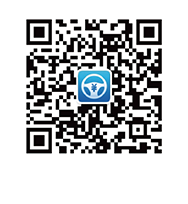
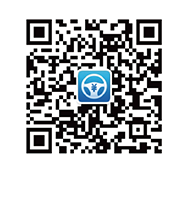
app更新修改

diff --git a/cz-app/czapp-dist/index.html b/cz-app/czapp-dist/index.html
@@ -59,11 +59,11 @@
                     <p class="afor-1"></p>
                 </div>
                 <div class="img1"></div>
-                <div class="tit-con">
-                    <div class="t-tit"><b>56489</b>个挣点</div>
-                    <div class="a-tit mt20">您总共有<b></b>56489个挣点，总共<b>564.89</b>元，</div>
-                    <div class="a-tit">里程奖励<b>14122</b>个挣点！驾驶奖励<b>14122</b>个挣点！</div>
-                    <div class="a-tit">停驶奖励<b>14122</b>个挣点</div>
+                <div class="tit-con tit-con-l">
+                    <div class="a-tit mt20">总共挣的<b>494</b>元</div>
+                    <div class="a-tit">里程奖励<b>12882</b>个挣点，</div>
+                    <div class="a-tit">驾驶奖励<b>5151</b>个挣点，</div>
+                    <div class="a-tit">停驶奖励<b>18241</b>个挣点!</div>
                 </div>
             </arction>
         </section>
@@ -142,15 +142,20 @@
                     <p class="afor-1"></p>
                 </div>
                 <div class="img1"></div>
-                <div class="img2"></div>
-                <!-- <div class="btn"></div> -->
-                <div class="qr-code"></div>
                 <div class="tit-con">
-                    <div class="a-tit">经过我们评测</div>
+                    <div class="a-tit mt20">经过我们评测</div>
                     <div class="a-tit mt20">您荣膺<i>【超级油王】</i>的称号！</div>
-                    <!-- <div class="a-tit">您的油耗花费在所有朋友中排名第1，</div> -->
-                    <!-- <div class="a-tit">华丽丽的存在！</div> -->
                 </div>
+            </arction>
+        </section>
+
+        <section data-page="9" class="m-page m-page9 hide">
+            <arction class="content">
+                <div class="arrow">
+                    <p class="afor-1"></p>
+                </div>
+                <div class="img1"></div>
+                <div class="qr-code"></div>
             </arction>
         </section>
 

diff --git a/cz-app/czapp-dist/css/style.css b/cz-app/czapp-dist/css/style.css
@@ -1,4 +1,4 @@
-/*! @czapp Date: 2015-08-13, 4:29:20 PM */
+/*! @czapp Date: 2015-08-14, 3:03:26 PM */
 /**
 *
 * 变量
@@ -859,6 +859,15 @@ i {
   font-size: 1rem;
   color: #fcd61b;
 }
+.mt5 {
+  margin-top: 5px !important;
+}
+.mt10 {
+  margin-top: 10px !important;
+}
+.mt15 {
+  margin-top: 15px !important;
+}
 .mt20 {
   margin-top: 20px !important;
 }
@@ -912,7 +921,7 @@ i {
 .a-tit {
   color: #c6c6c6;
   font-size: 0.7rem;
-  margin-top: 10px;
+  margin-top: 6px;
   margin-left: 20px;
   margin-right: 20px;
 }
@@ -964,6 +973,12 @@ i {
 }
 .m-page8 .tit-con {
   top: 12.5rem;
+}
+.m-page8 .tit-con-l {
+  text-align: left;
+  width: 12.5rem;
+  left: 50%;
+  margin-left: -4.5rem;
 }
 .m-page8 .img1 {
   background-image: url(../img/page8-1.jpg);
@@ -1022,15 +1037,6 @@ i {
   height: 13.425rem;
   background-size: cover;
 }
-.m-page7 .img2 {
-  background-image: url(../img/page7-2.jpg);
-  background-repeat: no-repeat;
-  width: 100%;
-  height: 4.675rem;
-  background-size: cover;
-  position: absolute;
-  bottom: 0px;
-}
 .m-page7 .btn {
   background-image: url(../img/btn.png);
   background-repeat: no-repeat;
@@ -1041,15 +1047,24 @@ i {
   top: 19.25rem;
   left: 4.5rem;
 }
-.m-page7 .qr-code {
-  background-image: url(../img/qr-code.png);
+.m-page9 .img1 {
+  background-image: url(../img/page7-2.jpg);
   background-repeat: no-repeat;
-  width: 4.7rem;
-  height: 5.1rem;
+  width: 100%;
+  height: 4.675rem;
   background-size: cover;
   position: absolute;
-  top: 16.5rem;
-  left: 5.6rem;
+  bottom: 0px;
+}
+.m-page9 .qr-code {
+  background-image: url(../img/qr-code.png);
+  background-repeat: no-repeat;
+  width: 7.5rem;
+  height: 8.75rem;
+  background-size: cover;
+  position: absolute;
+  top: 5rem;
+  left: 4.25rem;
 }
 .arrow {
   position: fixed;

diff --git a/cz-app/src/page/view/index.html b/cz-app/src/page/view/index.html
@@ -53,11 +53,11 @@
 			<arction class="content">
 				<div class="arrow"><p class="afor-1"></p></div>
 				<div class="img1"></div>
-				<div class="tit-con">
-					<div class="t-tit"><b>56489</b>个挣点</div>
-					<div class="a-tit mt20">您总共有<b></b>56489个挣点，总共<b>564.89</b>元，</div>
-					<div class="a-tit">里程奖励<b>14122</b>个挣点！驾驶奖励<b>14122</b>个挣点！</div>
-					<div class="a-tit">停驶奖励<b>14122</b>个挣点</div>
+				<div class="tit-con tit-con-l">
+					<div class="a-tit mt20">总共挣的<b>494</b>元</div>
+					<div class="a-tit">里程奖励<b>12882</b>个挣点，</div>
+					<div class="a-tit">驾驶奖励<b>5151</b>个挣点，</div>
+					<div class="a-tit">停驶奖励<b>18241</b>个挣点!</div>
 				</div>
 			</arction>
 		</section>
@@ -126,15 +126,18 @@
 			<arction class="content">
 				<div class="arrow"><p class="afor-1"></p></div>
 				<div class="img1"></div>
-				<div class="img2"></div>
-				<!-- <div class="btn"></div> -->
-				<div class="qr-code"></div>
 				<div class="tit-con">
-					<div class="a-tit">经过我们评测</div>
+					<div class="a-tit mt20">经过我们评测</div>
 					<div class="a-tit mt20">您荣膺<i>【超级油王】</i>的称号！</div>
-					<!-- <div class="a-tit">您的油耗花费在所有朋友中排名第1，</div> -->
-					<!-- <div class="a-tit">华丽丽的存在！</div> -->
 				</div>
+			</arction>
+		</section>
+
+		<section data-page="9" class="m-page m-page9 hide">
+			<arction class="content">
+				<div class="arrow"><p class="afor-1"></p></div>
+				<div class="img1"></div>
+				<div class="qr-code"></div>
 			</arction>
 		</section>
 		
